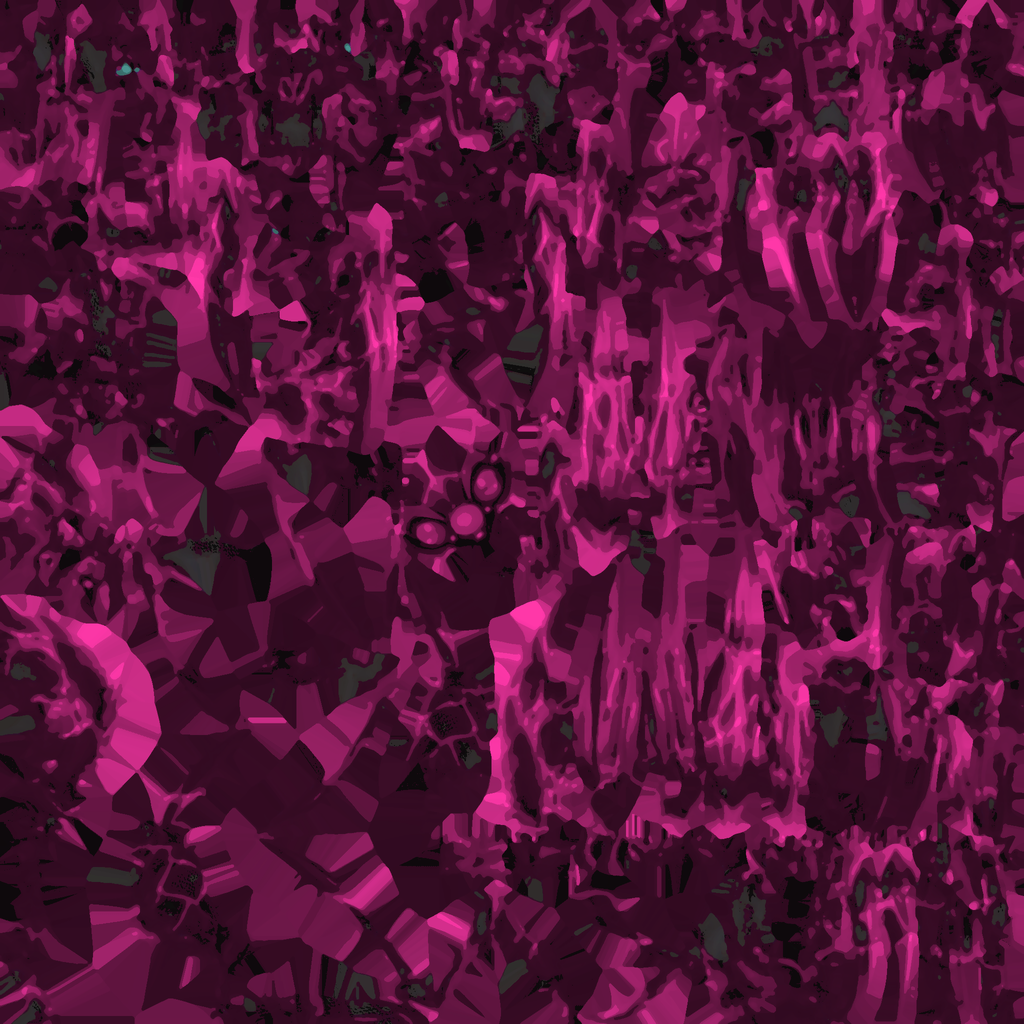
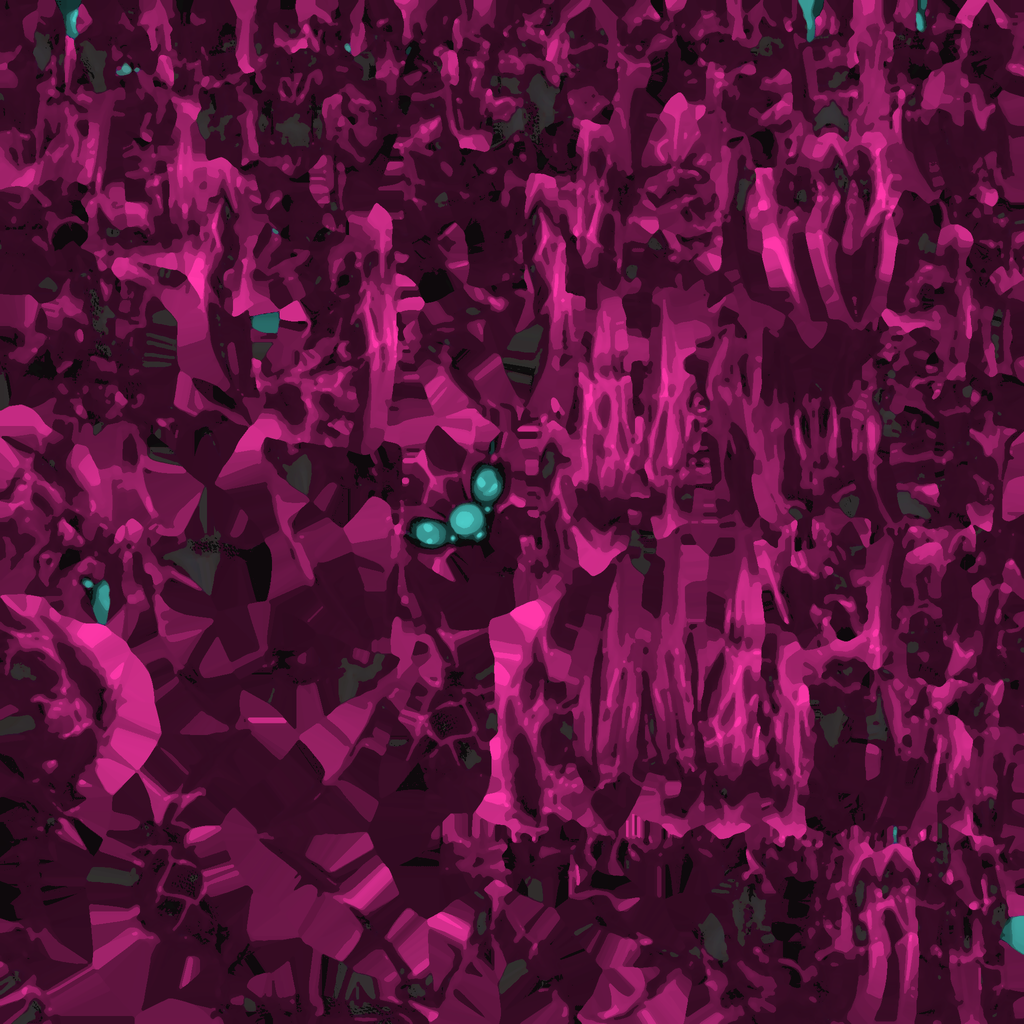
art: preserve held creature surface candidates and independent verdicts

diff --git a/ralph/reports/FOUR-BIOME-BUILD/CREATURE-PALETTE-HIERARCHY-0909.md b/ralph/reports/FOUR-BIOME-BUILD/CREATURE-PALETTE-HIERARCHY-0909.md
@@ -1,0 +1,133 @@
+# Creature palette hierarchy — 2026-09-09
+
+Status: production candidate generated and runtime-attributed; fixture-visible only,
+not world-accepted. Fixed 1280x800 production context was recaptured in Cloudreach
+and Stormwood, with the roster and native-facing limitations below. Independent
+visual acceptance remains pending.
+
+## Bounded change
+
+The deterministic repaint pipeline is first-match-wins. Pebblik's broad saturated
+body rule therefore consumed its source cobalt mineral panels before the intended
+violet secondary rule could see them. Voltarach had the same ordering defect on a
+much smaller but visually important source-blue facial/node region. The change adds
+one source-blue selector before each broad body rule:
+
+- Pebblik: source hue 205–285, saturation >= 0.25 and value >= 0.12 becomes violet
+  (hue 278), while the remaining saturated body stays sun-gold.
+- Voltarach: the same source selector becomes teal (hue 178), while the shell stays
+  magenta.
+
+No mesh, scale, collider, animation, AI, encounter, shiny/alpha, or emission behavior
+changed. `scripts/creatures/creature_body.gd` did not need a change.
+
+Owned production files:
+
+- `data/creatures/four_biome_colourways.json`
+- `assets/creatures/tetherbound/pebbik/models/pebbik_extracted_base_color_vivid.png`
+- `assets/creatures/tetherbound/voltarach/models/voltarach_extracted_base_color_vivid.png`
+
+Diagnostic fixture:
+
+- `tools/probe_creature_surface_hierarchy.gd`
+
+## Source and active-material attribution
+
+Against each installed source JPG, the selector covers 355,073 of 910,515
+chromatic Pebblik pixels (39.0%) and 5,925 of 791,809 chromatic Voltarach pixels
+(0.7%). The latter small region is the three front-facing nodes that carry the
+alpha's face read.
+
+The production-body fixture instantiates the ordinary `CreatureBody` setup for
+Pebblik, Skyrill, Voltarach, Torrentoad, and Water Cragclaw. All five resolve to the
+authored `*_extracted_base_color_vivid.png` albedo through the production material
+wrapper. At day the wrapper reports emission energy `0.000`, roughness `0.800`, and
+metallic `0.000`. Source mesh materials are ordinary lit PBR without source
+emission, so emission removal was not justified.
+
+The editor import completed with exit 0. Active cache source MD5 values equal the
+current generated PNG bytes:
+
+- Pebblik source/cache MD5: `39f0f0981bb594583c357ab3d01a8cd6`
+- Voltarach source/cache MD5: `2db982c76843b5911a4cbe147110b2d4`
[2 lines of base64/hex data omitted]
+
+Generated source hashes:
+
[2 lines of base64/hex data omitted]
+
+The two lineup images are attribution diagnostics, not a matched comparison: the
+stale-cache image is 1280x800 and the rebuilt-cache image is 1600x900. The rebuilt
+image visibly shows Pebblik's violet mineral planes and Voltarach's teal face nodes.
+
+- `shots/creatures-surface-probe/before-five.png`
+- `shots/creatures-surface-probe/after-five.png`
+
+## Validation and capture state
+
+- JSON parse: pass.
+- Deterministic repaint command completed for `pebbik voltarach --only vivid`.
+- Godot 4.7 Compatibility editor import: exit 0, no timeout or memory guard.
+- The original 287 dirty `.import` files were byte-backed before import and verified
+  at zero changed hashes after it. Six editor-touched files were restored from the
+  byte backup. Three clean-before Bark normal-map sidecars were restored to their
+  exact index blobs. The final status returned to exactly 287 modified `.import`
+  files, with no extra tracked sidecars and no untracked `.uid` files.
+- First rebuilt-cache Cloudreach world attempt:
+  `shots/catalogue/cloudreach/round-creature-palette-reimported-20260909/`.
+  It started at 2026-09-09 07:02:29-05:00 and the guard stopped it about 37.4 seconds
+  later at 379 MB free memory. Its manifest is `complete=false` and contains no
+  frame. This is retained failure evidence and is not palette validation. The stop
+  came from a mistaken reading of the approved `90%/400` guard: retained resource
+  monitors establish that the second limit is 400 processes, not a 400 MB
+  free-physical-memory floor. Subsequent runs used 90% system commit, 400 processes,
+  a 240-second timeout, persisted samples, and owned-PID termination.
+- The earlier `round-creature-palette-20260909` Cloudreach and Stormwood frames were
+  captured before the rebuilt texture cache. They are stale-context evidence only.
+- Corrected Stormwood context:
+  `shots/catalogue/stormwood/round-creature-palette-reimported-20260909/`.
+  It completed 1/1 in 23.2 seconds at 1280x800, peaking at 68.5% system commit and
+  249 processes. The manifest identifies the foreground body as Voltarach. Native
+  facing leaves its back toward the production camera in both the stale-cache and
+  rebuilt-cache frames, so this pair does not expose the corrected teal face nodes.
+- Corrected Cloudreach context:
+  `shots/catalogue/cloudreach/round-creature-palette-reimported2-20260909/`.
+  It completed 1/1 in 112.9 seconds at 1280x800, peaking at 71.89% system commit and
+  251 processes. The rebuilt-cache manifest contains six Skyrill and no Pebblik,
+  while the stale-cache comparator showed Pebblik. This is valid ordinary production
+  context and confirms the unchanged Skyrill route, but it is not a matched Pebblik
+  before/after pair.
+
+The neutral production-body fixture is the direct visual evidence for Pebblik's
+violet planes and Voltarach's teal facial nodes. The canonical world frames establish
+that the ordinary production scenes still load and place the identified bodies, but
+their stochastic roster/facing prevents a matched species comparison. An ordinary
+player-camera orbit/walk supplement would be appropriate if independent review needs
+world-space face proof; actor rotation or spacing changes are unnecessary. No broad
+cast or whole-biome acceptance is claimed here.
+
+## Root fixed-resolution fixture correction
+
+Root repeated only the existing static production-body fixture with an explicit
+1280x800 viewport and a distinct output path after the world attempts. The source
+change adds output-path and image-size reporting only. It completed in 5.6 seconds,
+exit 0 with no native/script errors, on Compatibility/OpenGL3, and reports an actual
+`(1280, 800)` image. Evidence:
+`shots/creatures-surface-probe/after-five-1280x800.png`, compared with retained
+`before-five.png` at the same resolution and static camera/stage. This removes
+the earlier resolution confound; the original 1600x900 after-image stays retained.
+Violet Pebblik panels and teal Voltarach facial nodes are visible in the corrected
+fixture. It remains a staged production-body comparison, not an ordinary-world
+cast acceptance. Full logs/engine-child guard receipts are in
+`.artifacts/water-gate-finish-lineup-20260909/` (root's shared visual-check wrapper).
+
+Independent disposition: the reused image-only reviewer returned A No/B Yes
+(category only) for the matched lineup. Voltarach's teal facial nodes have
+substantially clearer contrast; Pebblik's violet panels introduce another
+competing hue. Wider surface noise and facial hierarchy remain unresolved.
+See `VISUAL-WAVE-IMAGE-REVIEW-0909.md`. These candidates are retained but held;
+no roster acceptance or main landing is claimed. The later single-Torrentoad
+candidate and its separate verdict are recorded in
+`CREATURE-TORRENTOAD-SURFACE-HIERARCHY-0909.md`.

diff --git a/ralph/reports/FOUR-BIOME-BUILD/CREATURE-TORRENTOAD-SURFACE-HIERARCHY-0909.md b/ralph/reports/FOUR-BIOME-BUILD/CREATURE-TORRENTOAD-SURFACE-HIERARCHY-0909.md
@@ -1,0 +1,111 @@
+# Torrentoad surface hierarchy — 2026-09-09
+
+Status: one bounded production candidate, active-material attributed and captured
+in the fixed 1280x800 five-body fixture. Independent image-only review found a
+useful narrow improvement and held it pending shipping scope. No world or
+whole-roster acceptance is claimed, and no second colour correction is planned.
+
+## Finding and bounded change
+
+The independent image-only review ranked noisy, uniformly bright creature surfaces
+above the other lineup gaps and specifically found Torrentoad's face hard to parse.
+The installed texture explains the avoidable part of that result. Torrentoad's
+source cyan/blue region (hue 170–285, saturation at least 0.25, value at least 0.12)
+covers 1,284,867 of 4,194,304 UV pixels (30.63%). The current first-match vivid rule
+recoloured all chromatic pixels orange before that authored large region could be
+used. Its teal came instead from 395,634 bright near-neutral UV pixels (9.43%), which
+produced small wet-looking flecks over a nearly uniform orange body.
+
+Only Torrentoad's `vivid_rules` in
+`data/creatures/four_biome_colourways.json` changed:
+
+- the source cyan/blue region is selected first and becomes muted teal (hue 190,
+  saturation 0.40, source value multiplied by 1.02);
+- remaining chromatic pixels keep the warm orange identity (hue 24, saturation 0.60,
+  source value multiplied by 1.03);
+- low-saturation source planes remain neutral instead of becoming scattered teal.
+
+The existing deterministic pipeline regenerated only
+`assets/creatures/tetherbound/torrentoad/models/torrentoad_extracted_base_color_vivid.png`.
+No shader, lighting, emission, normal, mesh, scale, collider, animation, AI, combat,
+or roster data changed. Voltarach's retained teal eye selector is untouched.
+
+## Source and active texture attribution
+
+- installed source JPEG SHA-256:
[1 lines of base64/hex data omitted]
+- retained previous vivid PNG SHA-256:
[1 lines of base64/hex data omitted]
+- candidate vivid PNG SHA-256:
[1 lines of base64/hex data omitted]
+- imported cache source MD5: `7b40c8bcad64c612a377de1a672e6d7e`
+- imported cache destination MD5: `36cad82ca0e1e49c6e64fb2716a9807b`
+- candidate S3TC cache SHA-256:
[1 lines of base64/hex data omitted]
+
+The fixed fixture instantiates the ordinary production `CreatureBody` path. Its raw
+output identifies Torrentoad's active albedo as the candidate vivid PNG above. The
+material remains roughness `0.800`, metallic `0.000`, with emission enabled but day
+energy `0.000`. No emission behavior was changed.
+
+The previous vivid texture had mean saturation 0.7118, with 89.12% of UV pixels over
+0.70 saturation. The candidate measures 0.4887 mean saturation and 0% over 0.70.
+Mean luminance moves from 0.3359 to 0.3715. Mean adjacent-pixel RGB delta moves from
+0.00760 to 0.00656. These are whole-UV measurements, not estimates of screen-space
+body coverage.
+
+Separate source-map evidence is
+`shots/creatures-surface-probe/torrentoad-source-map.png`, SHA-256
[1 lines of base64/hex data omitted]
+It shows the installed source, retained previous vivid texture, candidate, and exact
+source selector. It is attribution evidence and is not an independent-review input.
+
+## Import and fixture receipts
+
+The exclusive Godot 4.7 Compatibility editor import exited 0 in 17.928 seconds,
+peaking at 57.281% system commit and 252 processes. The target cache source MD5
+matches the candidate PNG. The editor log also contains this error verbatim:
+
+`ERROR: Index p_idx = 9 is out of bounds (files.size() = 0).`
+
+That error is retained. The import is therefore not described as clean. Workspace
+timestamps show no other source addition during its 07:59:38–07:59:56 window;
+`project.godot`, the target texture metadata, and three Bark normal-map sidecars were
+written by the editor scan. This does not establish a concurrency cause, so the
+filesystem error remains unexplained.
+
+Before import, the 287 pre-existing dirty `.import` files were copied byte-for-byte
+to
+`C:/Users/mattj/AppData/Local/Temp/tetherbound-torrentoad-import-backup-20260909`.
+All 287 post-import hashes match that backup. The editor additionally rewrote three
+clean-before Bark sidecars and `project.godot`; root restored those four unrelated
+files after the lease. It also created 149 untracked UID files; only those exact
+untracked paths were removed after workspace boundary checks, leaving zero.
+
+The fixed fixture then exited 0 in 6.094 seconds, peaking at 52.013% system commit and
+254 processes, and left zero Godot processes. Raw receipts are under
+`.artifacts/torrentoad-surface-20260909/`.
+
+Matched neutral images:
+
+- retained before/current-five fixture:
+  `shots/creatures-surface-probe/after-five-1280x800.png`, SHA-256
[1 lines of base64/hex data omitted]
+- candidate fixture:
+  `shots/creatures-surface-probe/torrentoad-restraint-five-1280x800.png`, SHA-256
[1 lines of base64/hex data omitted]
+
+The images share viewport, camera, stage, actor transforms, and production material
+path. They still inherit the fixture's crowded lineup and overlap, so they cannot
+settle the review's staging finding. The candidate exposes a larger upper-body versus
+underside colour block, but the installed squat anatomy and small facial geometry
+remain unchanged; this albedo pass cannot create more expressive eyes or a new face.
+
+## Independent image-only review
+
+The reused image-only reviewer saw only the matched neutral pair. It judged the
+candidate's broad muted crown and calmer orange-brown body as a useful local
+improvement. It also found that Torrentoad's eyes and expression remain weak and
+that the lineup still carries broader surface noise. Category fit remains Yes, while
+visual target A remains No. This supports retaining the narrow candidate; it does
+not support another colour tune or a roster-level acceptance claim.
